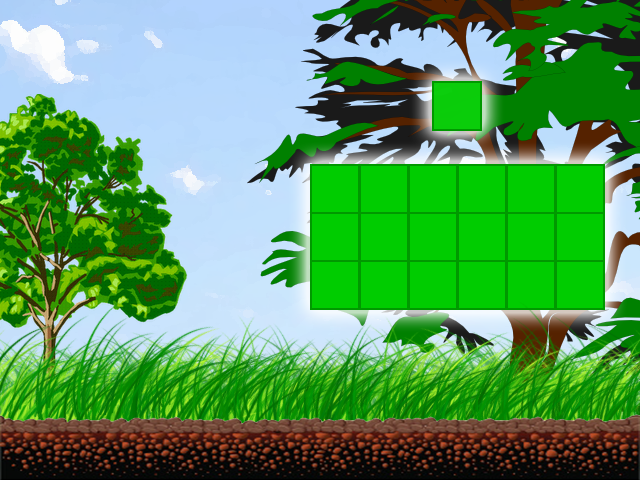
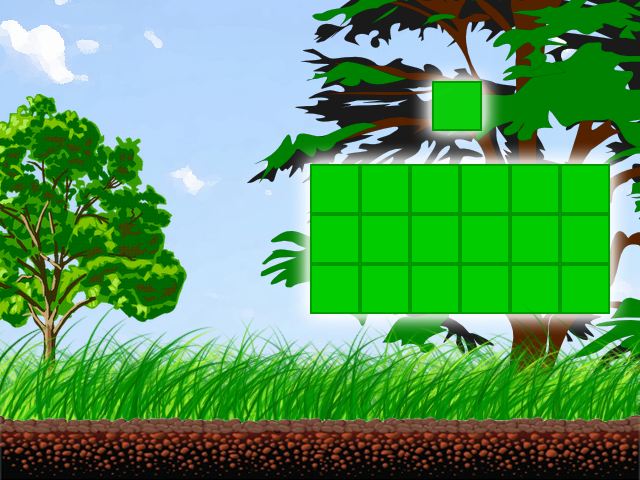
Added Rune selection system

Changed region(s): [[0.4688, 0.3125, 1.0, 0.6875]]

diff --git a/core/src/main/java/sut/game01/core/screen/PetScreen.java b/core/src/main/java/sut/game01/core/screen/PetScreen.java
@@ -1,10 +1,16 @@
 package sut.game01.core.screen;
 
+import playn.core.GroupLayer;
 import playn.core.ImageLayer;
 import playn.core.Pointer;
 import sut.game01.core.ModelShow.MiniSpiritModel;
+import sut.game01.core.all_etc.GameContent;
+import sut.game01.core.all_etc.ImageStore;
 import tripleplay.game.ScreenStack;
 import tripleplay.game.UIScreen;
+
+import java.util.List;
+
 import static playn.core.PlayN.*;
 
 /**
@@ -15,10 +21,27 @@ public class PetScreen extends UIScreen {
     final ScreenStack ss;
 
     private MiniSpiritModel pet;
+    private GameContent gContent;
+    private int runeSelected = -1;
+    private List<Integer> runeList;
+    private GroupLayer[][] runeListPosition = new GroupLayer[3][6];
 
-    public PetScreen(ScreenStack ss)
+    private GroupLayer runeSelectedPosition = graphics().createGroupLayer();
+
+    public PetScreen(ScreenStack ss,GameContent gContent)
     {
         this.ss = ss;
+        this.gContent = gContent;
+        this.runeSelected = gContent.getRune();
+        this.runeList = gContent.getRuneList();
+
+        for(int i=0;i<3;i++)
+        {
+            for(int j=0;j<6;j++)
+            {
+                runeListPosition[i][j] = graphics().createGroupLayer();
+            }
+        }
     }
 
     @Override
@@ -31,6 +54,7 @@ public class PetScreen extends UIScreen {
         backLayer.addListener(new Pointer.Adapter(){
             @Override
             public void onPointerEnd(Pointer.Event event) {
+                gContent.setRune(runeSelected);
                 ss.remove(PetScreen.this);
             }
         });
@@ -38,10 +62,99 @@ public class PetScreen extends UIScreen {
 
         pet = new MiniSpiritModel(layer,200f,260f);
         pet.layer().setScale(1.5f);
+
+        runeSelectedPosition.setTranslation(432,81);
+        layer.add(runeSelectedPosition);
+
+        if(runeSelected > -1)
+        {
+            ImageLayer runeIcon = graphics().createImageLayer(ImageStore.RuneIcon[runeSelected]);
+            runeIcon.addListener(new Pointer.Adapter(){
+                @Override
+                public void onPointerEnd(Pointer.Event event) {
+                    if(runeSelected > -1)
+                    {
+                        runeList.add(runeSelected);
+                        runeSelected = -1;
+                    }
+                }
+            });
+            runeSelectedPosition.add(runeIcon);
+        }
+
+        int width = 310;
+        int hieght = 164;
+
+        for(int i=0;i<3;i++)
+        {
+            for(int j=0;j<6;j++)
+            {
+                runeListPosition[i][j].setTranslation(width + (j * 50), hieght + (i * 50));
+                layer.add(runeListPosition[i][j]);
+            }
+        }
     }
 
     @Override
     public void update(int delta) {
         pet.update(delta);
+        updateSelectedRune();
+        updateRuneList();
+    }
+
+    public void updateSelectedRune()
+    {
+        runeSelectedPosition.removeAll();
+        if(runeSelected < 0) return;
+        ImageLayer runeIcon = graphics().createImageLayer(ImageStore.RuneIcon[runeSelected]);
+        runeIcon.addListener(new Pointer.Adapter(){
+            @Override
+            public void onPointerEnd(Pointer.Event event) {
+                if(runeSelected > -1)
+                {
+                    runeList.add(runeSelected);
+                    runeSelected = -1;
+                }
+            }
+        });
+        runeSelectedPosition.add(runeIcon);
+    }
+
+    public void updateRuneList()
+    {
+        for(int i=0;i<3;i++)
+        {
+            for(int j=0;j<6;j++)
+            {
+                runeListPosition[i][j].removeAll();
+
+                final int index = (i*6) + j;
+
+                if(index > runeList.size() -1) return;
+
+                int runeID = runeList.get(index);
+
+                if(runeID < 0)
+                {
+                    continue;
+                }
+                else
+                {
+                    ImageLayer runeItem = graphics().createImageLayer(ImageStore.RuneIcon[runeID]);
+                    runeItem.addListener(new Pointer.Adapter(){
+                        @Override
+                        public void onPointerEnd(Pointer.Event event) {
+                            if(runeSelected < 0)
+                            {
+                                runeSelected = runeList.get(index);
+                                runeList.remove(index);
+                            }
+                        }
+                    });
+
+                    runeListPosition[i][j].add(runeItem);
+                }
+            }
+        }
     }
 }

diff --git a/core/src/main/java/sut/game01/core/screen/CharacterScreen.java b/core/src/main/java/sut/game01/core/screen/CharacterScreen.java
@@ -78,7 +78,7 @@ public class CharacterScreen extends UIScreen {
         pet.layer().addListener(new Pointer.Adapter(){
             @Override
             public void onPointerEnd(Pointer.Event event) {
-                ss.push(new PetScreen(ss));
+                ss.push(new PetScreen(ss,gContent));
             }
         });
 
@@ -133,7 +133,19 @@ public class CharacterScreen extends UIScreen {
     @Override
     public void wasShown() {
         positionRune.removeAll();
-        positionRune.add(graphics().createImageLayer(ImageStore.RuneIcon[RuneSelected]));
+
+        if(gContent.getRune() > -1)
+        {
+            ImageLayer runeIcon = graphics().createImageLayer(ImageStore.RuneIcon[gContent.getRune()]);
+            runeIcon.addListener(new Pointer.Adapter(){
+                @Override
+                public void onPointerEnd(Pointer.Event event) {
+                    ss.push(new PetScreen(ss,gContent));
+                }
+            });
+            positionRune.add(runeIcon);
+        }
+
         gContent.Refresh();
     }
 
@@ -179,7 +191,7 @@ public class CharacterScreen extends UIScreen {
                 positionItemSlot[i][j].removeAll();
                 final int index = (i*6) + j;
 
-                if (index > itemList.size()-1) continue;
+                if (index > itemList.size()-1) return;
 
                 int itemID = itemList.get(index);
 

diff --git a/core/src/main/java/sut/game01/core/screen/Stage1.java b/core/src/main/java/sut/game01/core/screen/Stage1.java
@@ -146,7 +146,17 @@ public class Stage1 extends Screen {
 
         // - Pet
         Rune rune = ContentLoader.RuneLoader(gContent.getRune());
-        UIGroup.add(rune.getIcon().setTranslation(565,15));
+        if(rune == null)
+        {
+            ImageLayer runeIcon = PlayN.graphics().createImageLayer(ImageStore.NullSkill);
+            runeIcon.setTranslation(565,15);
+            UIGroup.add(runeIcon);
+        }
+        else
+        {
+            UIGroup.add(rune.getIcon().setTranslation(565,15));
+        }
+
         objDynamic.add(new MiniSpirit(world,layer,main,rune));
 
         // - Monster
